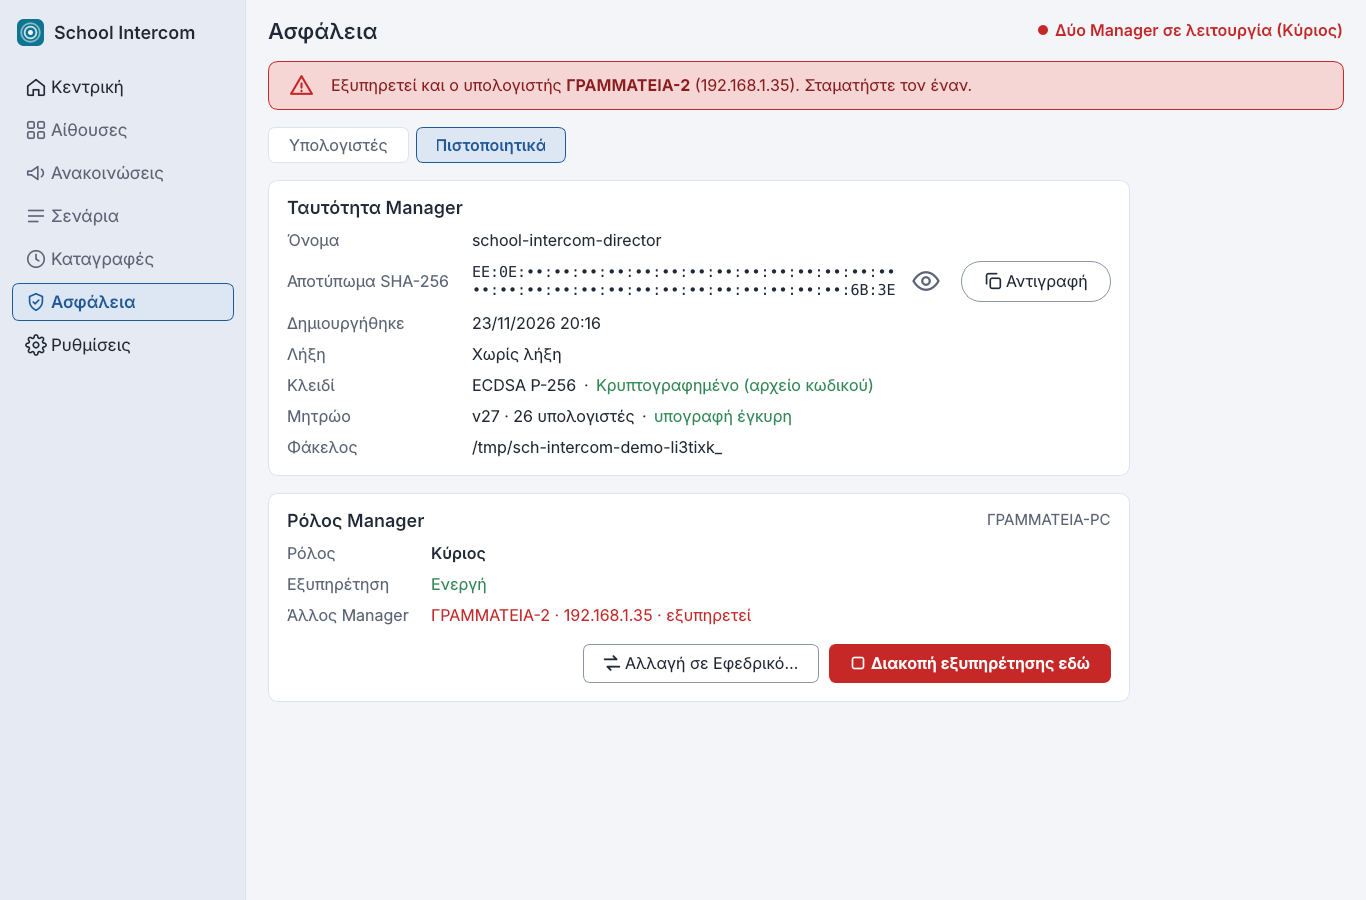
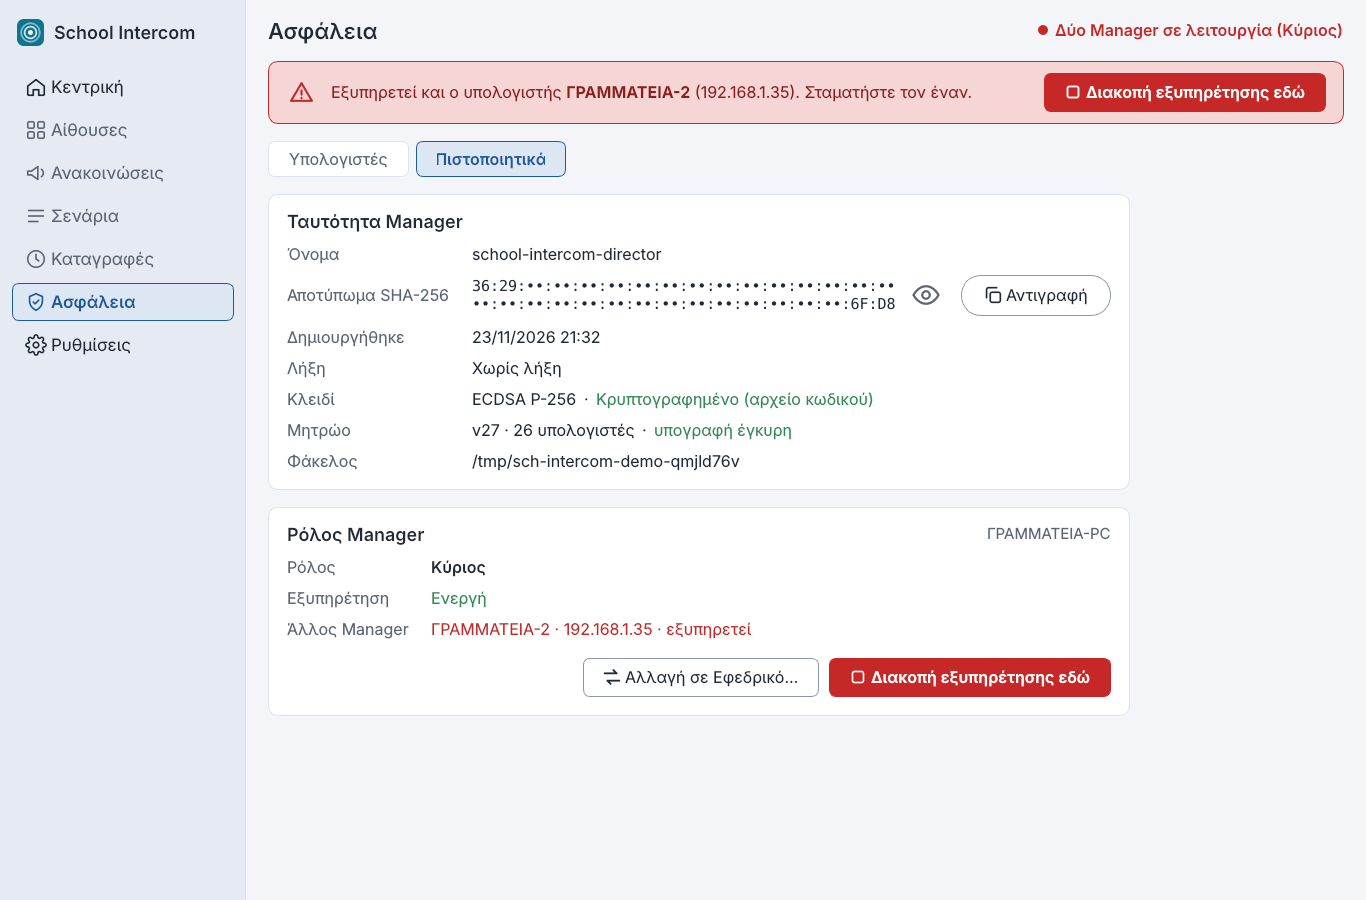
4.2D2: κουμπί διακοπής της κόκκινης ειδοποίησης και στα Πιστοποιητικά (απόφαση χρήστη)
Claude-Session: https://claude.ai/code/session_01KrSiFtBe7XQxEHhV5xpYwd

diff --git a/tools/manager_role_gui_live_test.py b/tools/manager_role_gui_live_test.py
@@ -294,18 +294,17 @@ class LiveTest:
         conflict = self.gui.wait(lambda: self.gui.window.conflict_bar.isVisible(), timeout=15)
         header = self.gui.header()
         caution = self.a.director.wait_for("ΠΡΟΣΟΧΗ: εξυπηρετεί και", since=marker, timeout=10)
-        hidden = not self.gui.window.conflict_stop.isVisible()
+        both = (self.gui.window.conflict_stop.isVisible()
+                and self.gui.card.serve_button.text() == "Διακοπή εξυπηρέτησης εδώ")
         self.gui.screenshot("07-dyo-manager")
         return (bool(conflict) and header == ("Δύο Manager σε λειτουργία (Εφεδρικός)", "conflict")
-                and check_port(self.b.port) and caution is not None and hidden), (
+                and check_port(self.b.port) and caution is not None and both), (
                     f"μπάρα «{header[0]}», θύρα B {check_port(self.b.port)}, "
                     f"προειδοποίηση στον A {caution is not None}, "
-                    f"κουμπί μπάρας κρυφό στα Πιστοποιητικά {hidden}")
+                    f"κουμπί μπάρας και κάρτας στα Πιστοποιητικά {both}")
 
     def s11_stop_from_bar(self):
-        window = self.gui.window
-        window.show_page("home")
-        self.gui.pump()
+        window = self.gui.window   # ακόμη στα «Πιστοποιητικά», με την κάρτα ορατή
         visible = window.conflict_stop.isVisible()
         self.gui.answers = ["reject"]
         window.conflict_stop.click()
@@ -318,9 +317,10 @@ class LiveTest:
         window.conflict_stop.click()
         self.gui.pump()
         stopped = not check_port(self.b.port)
-        return (visible and asked and stopped and not window.conflict_bar.isVisible()
+        card = self.gui.card.serve_button.text() == "Έναρξη εξυπηρέτησης"
+        return (visible and asked and stopped and card and not window.conflict_bar.isVisible()
                 and self.gui.state().get("serving") is False), (
-                    f"κουμπί στην Κεντρική {visible}, επιβεβαίωση (Άκυρο κράτησε) {asked}, "
+                    f"κουμπί μπάρας {visible}, κάρτα ενημερώθηκε {card}, επιβεβαίωση (Άκυρο κράτησε) {asked}, "
                     f"θύρα B κλειστή {stopped}")
 
     def s12_promote_and_serve(self):

diff --git a/tests/test_manager_role_gui.py b/tests/test_manager_role_gui.py
@@ -263,12 +263,11 @@ class WindowTests(unittest.TestCase):
         window.show_page("security")
         window.security_page.show_tab("Πιστοποιητικά")
         self.settle()
-        # Στα «Πιστοποιητικά» το ίδιο κουμπί είναι στην κάρτα ρόλου.
-        self.assertFalse(window.conflict_stop.isVisible())
+        # Και στα «Πιστοποιητικά» (απόφαση χρήστη 23/11/2026), μαζί με το κουμπί της κάρτας.
+        self.assertTrue(window.conflict_stop.isVisible())
         card = window.security_page.role_card
         self.assertEqual(card.serve_button.text(), "Διακοπή εξυπηρέτησης εδώ")
         self.assertEqual(card.serve_button.objectName(), "dangerAction")
-        window.security_page.show_tab("Υπολογιστές")
         window.conflict_stop.click()             # Άκυρο: τίποτα δεν αλλάζει
         self.settle()
         self.assertIsInstance(self.dialogs[-1], qt_role.StopDialog)
@@ -282,6 +281,9 @@ class WindowTests(unittest.TestCase):
         self.assertFalse(self.state().serving)
         self.assertFalse(window.conflict_bar.isVisible())
         self.assertEqual(window.connection_label.text(), "Χωρίς εξυπηρέτηση (Κύριος)")
+        # Η κάρτα ενημερώθηκε μαζί με την μπάρα.
+        self.assertEqual(card.serve_button.text(), "Έναρξη εξυπηρέτησης")
+        self.assertEqual(card.rows.values["serving"].text(), "Σταματημένη")
 
     def test_start_conflict_dialog_then_force(self):
         window = self.window("newer")

diff --git a/director/qt_gui.py b/director/qt_gui.py
@@ -1117,10 +1117,6 @@ class DirectorWindow(QMainWindow):
         self.conflict_bar.setVisible(status.conflict)
         if status.conflict:
             self.conflict_bar.set_text(status.conflict_html())
-        # Στα «Πιστοποιητικά» το ίδιο κουμπί είναι ήδη στην κάρτα ρόλου (πρόταση, 23/11/2026).
-        on_certificates = (self.security_page is not None and self.current_page == "security"
-                           and self.security_page.current_tab == "Πιστοποιητικά")
-        self.conflict_stop.setVisible(not on_certificates)
         if self.security_page is not None:
             self.security_page.set_role(status)
 

diff --git a/docs/ui-style.md b/docs/ui-style.md
@@ -80,7 +80,7 @@ Mockup σελίδας «Ασφάλεια»: §6 (Υπολογιστές) και 
 - **Ένδειξη κατάστασης σύνδεσης:** κείμενο + κουκκίδα σε `connected`, **«● Συνδεδεμένος»** (η κουκκίδα **πριν** από τη λέξη· ενημέρωση 22/11/2026, αντικαθιστά την απόφαση 21/11/2026 «Συνδεδεμένος ●»), στην ίδια γραμμή με τον τίτλο σελίδας, **τέρμα δεξιά**. Ισχύει σε όλες τις σελίδες. **Με ρόλο Manager (4.2D2, απόφαση χρήστη 23/11/2026):** «● Συνδεδεμένος (Κύριος)» / «● Συνδεδεμένος (Εφεδρικός)» σε `connected`· χωρίς εξυπηρέτηση «○ Χωρίς εξυπηρέτηση (Εφεδρικός)» σε `text_muted`, κανονικό βάρος, με **κενό κύκλο**· όταν εξυπηρετεί και άλλος Manager «● Δύο Manager σε λειτουργία (Κύριος)» σε `live`.
 - **Ειδοποιήσεις κάτω από τον τίτλο σελίδας (4.2D2, σε όλες τις σελίδες):** πλήρες πλάτος, radius 8, περίγραμμα 1px, εικονίδιο 20px αριστερά, κείμενο (με **έντονα** ονόματα) και κουμπιά τέρμα δεξιά.
   - **Μπλε** (`primary_light`, περίγραμμα `primary`, κείμενο `primary_dark`, εικονίδιο `info`) μετά από επαναφορά: «Επαναφορά από backup: ο υπολογιστής είναι **Εφεδρικός** και δεν εξυπηρετεί.» με «Να μείνει Εφεδρικός» (λευκό) και «Να γίνει Κύριος…» (`primary`).
-  - **Κόκκινη** (`live_light`, περίγραμμα `live`, κείμενο `alarm_text`, εικονίδιο `alert`): «Το μητρώο χρειάζεται ενημέρωση: ο X έχει v17, εδώ v15.» με «Εισαγωγή μητρώου…» (λευκό, εικονίδιο `import`)· και «Εξυπηρετεί και ο υπολογιστής **X** (IP). Σταματήστε τον έναν.» με κόκκινο «Διακοπή εξυπηρέτησης εδώ», που **κρύβεται στο tab «Πιστοποιητικά»**, όπου το ίδιο κουμπί είναι στην κάρτα «Ρόλος Manager».
+  - **Κόκκινη** (`live_light`, περίγραμμα `live`, κείμενο `alarm_text`, εικονίδιο `alert`): «Το μητρώο χρειάζεται ενημέρωση: ο X έχει v17, εδώ v15.» με «Εισαγωγή μητρώου…» (λευκό, εικονίδιο `import`)· και «Εξυπηρετεί και ο υπολογιστής **X** (IP). Σταματήστε τον έναν.» με κόκκινο «Διακοπή εξυπηρέτησης εδώ», **σε όλες τις σελίδες, και στα «Πιστοποιητικά»** δίπλα στο ίδιο κουμπί της κάρτας «Ρόλος Manager»· όποιο πατηθεί, ενημερώνονται αμέσως και τα δύο (απόφαση χρήστη 23/11/2026).
 
 ## 5. Διάταξη κεντρικής οθόνης Director
 

diff --git a/docs/phase4-2d.md b/docs/phase4-2d.md
@@ -28,7 +28,7 @@
 - Κάρτα «Μητρώο υπολογιστών» στη «Συντήρηση» (εξαγωγή/εισαγωγή `.sicr`, διάλογος με προεπισκόπηση και επιλογή για τις διαφορές στη συγχώνευση).
 - Λεπτομέρειες εμφάνισης: ui-style.md §4, §6, §7, §8.
 
-**Επιλογές του 4.2D2 που δεν είχαν ρητή απόφαση (στο PR για έλεγχο):** (1) το κουμπί της κόκκινης ειδοποίησης δεύτερου Manager κρύβεται στο tab «Πιστοποιητικά», όπου υπάρχει το ίδιο στην κάρτα ρόλου· (2) ο Κύριος χωρίς εξυπηρέτηση δείχνει επίσης κλειστές εγγραφές («Κλειστές όσο η εξυπηρέτηση είναι σταματημένη») χωρίς λουκέτα στις κεφαλίδες· (3) η «Αλλαγή σε Εφεδρικό» και η «Διακοπή εξυπηρέτησης εδώ» ζητούν επιβεβαίωση (η δεύτερη με απόφαση χρήστη 23/11/2026, όπως και το (2))· (4) αν στην εκκίνηση η αποθηκευμένη εξυπηρέτηση δεν ξεκίνησε λόγω άλλου Manager, ανοίγει ο διάλογος σύγκρουσης του mockup.
+**Επιλογές του 4.2D2 που δεν είχαν ρητή απόφαση (στο PR για έλεγχο):** (1) το κουμπί της κόκκινης ειδοποίησης δεύτερου Manager φαίνεται και στο tab «Πιστοποιητικά», μαζί με το ίδιο της κάρτας ρόλου, και ενημερώνονται μαζί (απόφαση χρήστη 23/11/2026)· (2) ο Κύριος χωρίς εξυπηρέτηση δείχνει επίσης κλειστές εγγραφές («Κλειστές όσο η εξυπηρέτηση είναι σταματημένη») χωρίς λουκέτα στις κεφαλίδες· (3) η «Αλλαγή σε Εφεδρικό» και η «Διακοπή εξυπηρέτησης εδώ» ζητούν επιβεβαίωση (η δεύτερη με απόφαση χρήστη 23/11/2026, όπως και το (2))· (4) αν στην εκκίνηση η αποθηκευμένη εξυπηρέτηση δεν ξεκίνησε λόγω άλλου Manager, ανοίγει ο διάλογος σύγκρουσης του mockup.
 
 Η υπόλοιπη προδιαγραφή αφορά **μόνο το 4.2D1**.
 
